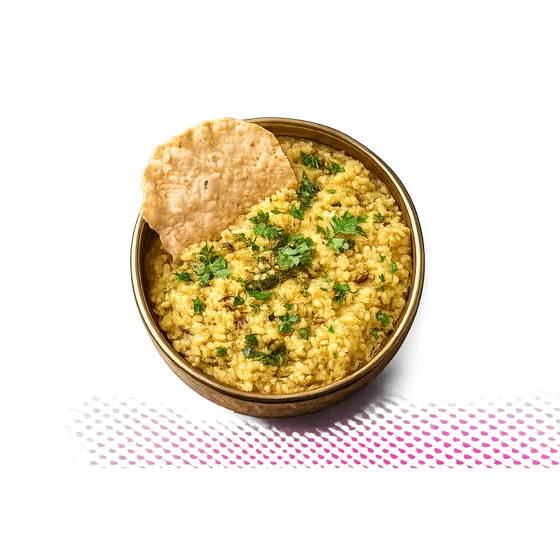
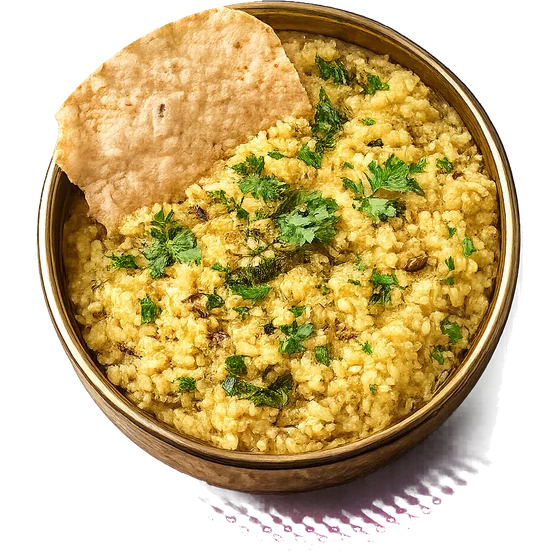
Updated UI

diff --git a/index.html b/index.html
@@ -72,7 +72,7 @@
   ::selection { background: var(--green); color: var(--cream); }
 
   /* === NAV === */
-  nav { position: sticky; top: 0; z-index: 100; background: rgba(251, 247, 238, 0.88); backdrop-filter: blur(12px); border-bottom: 1px solid var(--line); padding: 0 2.5rem; height: 70px; display: flex; align-items: center; justify-content: space-between; }
+  nav { position: sticky; top: 0; z-index: 100; background: rgba(251, 247, 238, 0.6); -webkit-backdrop-filter: blur(18px) saturate(1.15); backdrop-filter: blur(18px) saturate(1.15); border-bottom: 1px solid rgba(229, 219, 194, 0.6); box-shadow: 0 1px 12px rgba(74, 59, 42, 0.04); padding: 0 2.5rem; height: 70px; display: flex; align-items: center; justify-content: space-between; }
   .logo { font-family: var(--font-serif); font-size: 1.55rem; font-weight: 600; letter-spacing: -0.4px; color: var(--green-d); cursor: pointer; }
   .logo .dot { color: var(--coral); font-style: italic; }
   .nav-links { display: flex; gap: 2.25rem; list-style: none; }
@@ -639,7 +639,7 @@
     .bmi-scale span:nth-child(1) { margin-left: 25%; }
   }
   @media (max-width: 900px) {
-    nav { padding: 0 1.25rem; position: relative; }
+    nav { padding: 0 1.25rem; position: sticky; }
     .nav-actions { display: none; }
     .nav-hamburger { display: flex; }
     .nav-links {